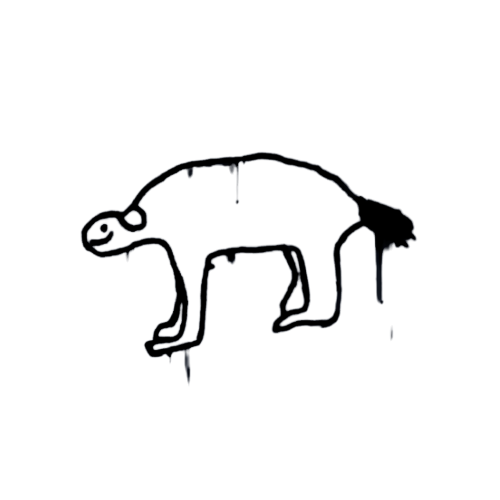
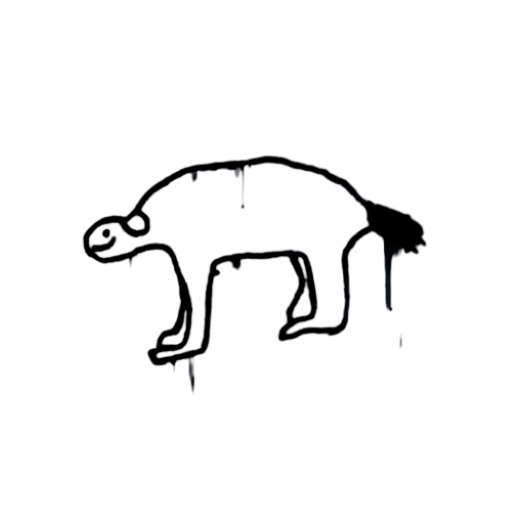
add sprays

diff --git a/project.js b/project.js
@@ -515,7 +515,29 @@ export class Project extends Scene {
         color: hex_color("#ffffff"),
         ambient: 1,
       }),
+
+      // spray paints 
+      lobster_spray: new Material(new defs.Textured_Phong(), {
+        color: hex_color("#000000"),
+        ambient: 1,
+        texture: new Texture("assets/background/lobster_spray.png", "LINEAR"),
+      }),
+
+      val_spray: new Material(new defs.Textured_Phong(), {
+        color: hex_color("#000000"),
+        ambient: 1,
+        texture: new Texture("assets/background/val_spray.png", "LINEAR"),
+      }),
+
+      boom_spray: new Material(new defs.Textured_Phong(), {
+        color: hex_color("#000000"),
+        ambient: 1,
+        texture: new Texture("assets/background/boom_spray.png", "LINEAR"),
+      }),
+
     };
+
+
 
     // Sound effects
     this.gun_with_ammo = new Audio("assets/sounds/gun_with_ammo.mp3");
@@ -1835,6 +1857,36 @@ export class Project extends Scene {
       shooting_guide2_trans,
       this.materials.shooting_guide
     );
+
+    // spray paints
+    let lobster_spray_transform = Mat4.translation(-4,0,-17.5)
+      .times(Mat4.scale(4,4,1));
+    this.shapes.square.draw(
+      context, 
+      program_state, 
+      lobster_spray_transform, 
+      this.materials.lobster_spray
+    )
+
+    let boom_spray_transform = Mat4.translation(0,-3,-17.5)
+    .times(Mat4.scale(3,3,1));
+  this.shapes.square.draw(
+    context, 
+    program_state, 
+    boom_spray_transform, 
+    this.materials.boom_spray.override({ambient: 0.7})
+  )
+
+  let val_spray_transform = Mat4.translation(14.5,7,-17.5)
+    .times(Mat4.rotation(-Math.PI/10, 0,0,1))
+    .times(Mat4.scale(1.3,1.3,1));
+  this.shapes.square.draw(
+    context, 
+    program_state, 
+    val_spray_transform, 
+    this.materials.val_spray.override({ambient: 0.6})
+  )
+    
 
     // Window
     let window_transform = Mat4.identity();
